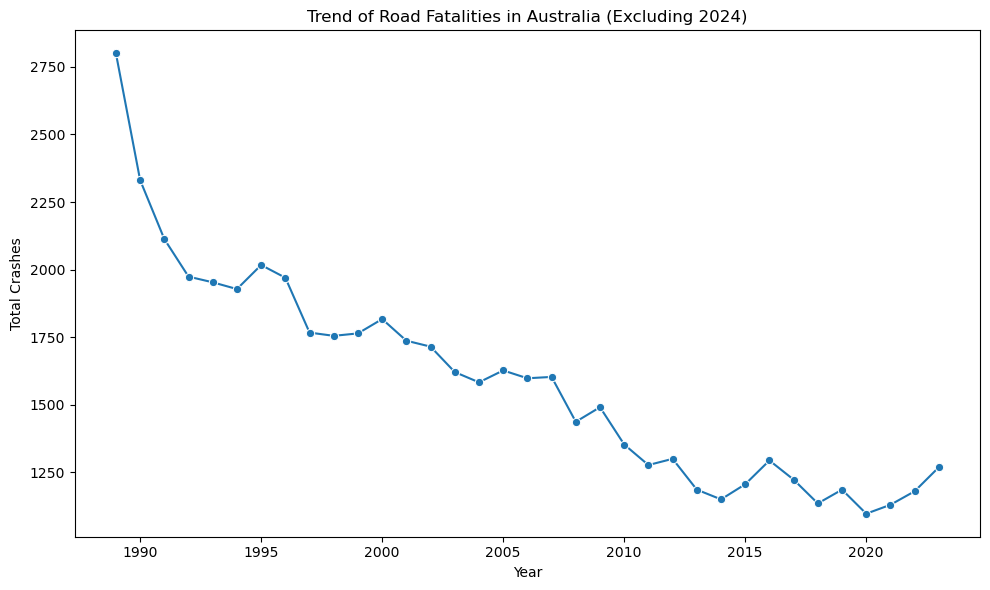
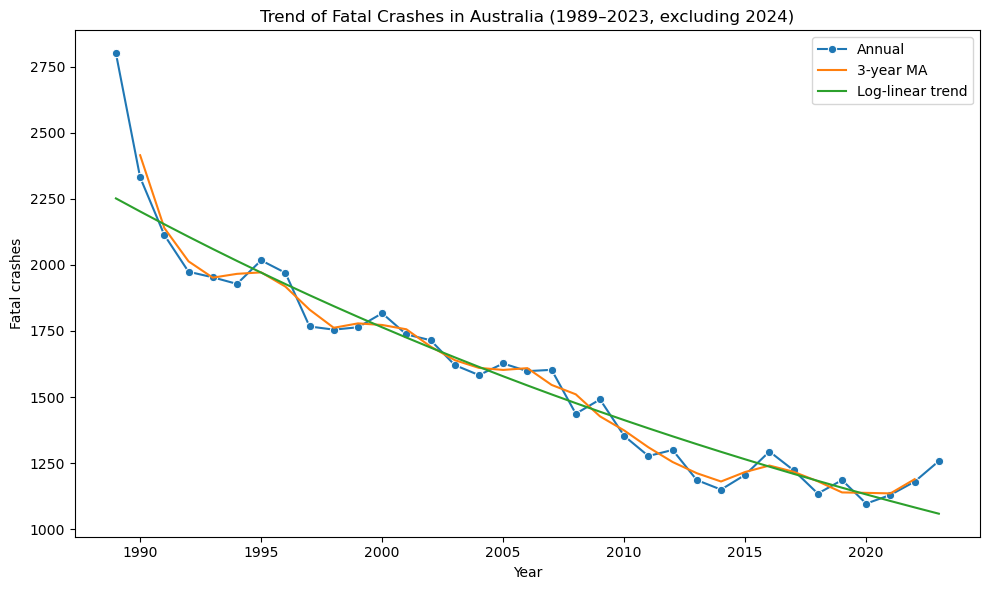
updated text

diff --git a/README.md b/README.md
@@ -54,40 +54,40 @@ This project utilises an Excel dataset to analyze road fatalities in Australia, 
 
 The graph shows the trend of total fatal crashes in Australia from 1989 to 2023 (excluding 2024). The analysis also includes a smoothed 3‑year moving average and a log‑linear fitted trend, which both reinforce the clear long‑run decline. Below is a detailed summary and analysis based on the visualisation:
 
-1. Significant Decrease in Road Crashes Over Time:
+1. Significant Decrease in Fatal Crashes Over Time:
 
-- In 1989, there were approximately 2800 crashes per year.
-- By 2023, this number has decreased to about 1269 crashes, representing a reduction of over 50% in road crashes during the 35-year period.
-- The most substantial reduction occurred between 1989 and 1992, where crashes dropped from 2800 to 1974.
+- In 1989, there were approximately 2800 fatal crashes per year.
+- By 2023, this number has decreased to about 1269 fatal crashes, representing a reduction of over 50% during the 35-year period.
+- The most substantial reduction occurred between 1989 and 1992.
 
-2. Fluctuations in Decline:
+2. Fluctuations in the Decline:
 
 - The overall trend is downward, but there are periods of stability and slight increases:
-  - After the sharp decline between 1989 and 1992, crashes stabilised around 1900-2000 crashes per year between 1992 and 1997.
-  - From 1998 to 2010, there was a continued decrease in crashes, with numbers dropping from 1755 in 1998 to a low of 1277 in 2011.
-  - Post-2011, crashes continued to decline, reaching a low of 1097 crashes in 2020.
-- After 2020, there was a slight uptick in crashes, rising to 1269 in 2023.
+  - After the sharp decline between 1989 and 1992, totals stabilised around 1900–2000 fatal crashes per year between 1992 and 1997.
+  - From 1998 to 2010, there was a continued decrease, with a local low around 2011.
+  - Post-2011, totals continued to decline, reaching a low in 2020.
+- After 2020, there was a slight uptick, rising into 2023.
 
 3. Implications of the Decline:
 
-- The consistent reduction in road crashes can likely be attributed to several factors:
+- The consistent reduction in fatal crashes can likely be attributed to several factors:
   - Improved road safety measures: Better road infrastructure, stricter traffic law enforcement, and increased awareness of road safety likely contributed to this reduction.
   - Technological Advances: The development of safer vehicle technologies (such as airbags, anti-lock braking systems, and electronic stability control) likely played a significant role.
-  - Government intervention: Policies such as lower speed limits, mandatory seatbelt usage, and zero-tolerance for drink-driving helped reduce crashes.
+  - Government intervention: Policies such as lower speed limits, mandatory seatbelt usage, and zero-tolerance for drink-driving helped reduce fatal crashes.
 
 4. Recent Stability and Slight Uptick:
 
-- In the years between 2020 and 2023, there was a slight rise in the number of crashes, increasing from 1097 crashes in 2020 to 1269 in 2023.
+- In the years between 2020 and 2023, there was a slight rise in the number of fatal crashes.
 - This recent increase could be due to the rebound effect post-pandemic, as more vehicles returned to the road following COVID-19 restrictions. It may also be driven by new factors such as distractions from mobile devices or other technological impacts.
 
 Summary
 
-- The data show that road safety in Australia has significantly improved over the last 30 years, with crashes decreasing by over 50%, from 2800 in 1989 to 1269 in 2023.
+- The data show that road safety in Australia has significantly improved over the last 30 years, with fatal crashes decreasing by over 50% from 1989 to 2023.
 - While much of this reduction can be attributed to advancements in safety technology, better driver education, and stronger laws, the slight rise in recent years warrants further investigation.
 
 Statistical Insights
 
-- Time Series Analysis: The long-term downward trend suggests that safety measures have had a substantial positive impact in reducing crashes.
+- Time Series Analysis: The long-term downward trend suggests that safety measures have had a substantial positive impact in reducing fatal crashes.
 - Comparison: Comparing the peak crash periods of the early 1990s with the most recent years highlights a dramatic improvement in road safety.
 - Correlation: Further analysis could explore the relationship between crash trends and external factors, such as changes in vehicle technology, traffic enforcement policies, or driver behaviour over the years.
 
